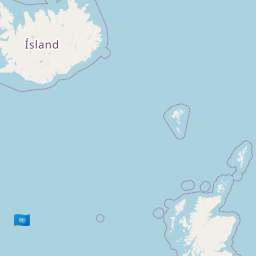
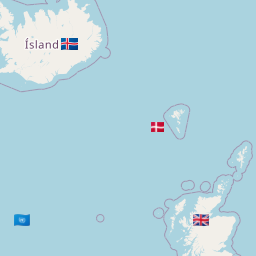
flags-from-the-pango-public

Changed region(s): [[0.75, 0.8125, 0.8438, 0.9062], [0.2188, 0.125, 0.3125, 0.2188], [0.5938, 0.4688, 0.6562, 0.5312]]

diff --git a/wms/tflag/readme.md b/wms/tflag/readme.md
@@ -71,3 +71,27 @@ magick flagsW.png -crop 40x20  o-%d.png  #/ all flags o-0 to o40
 
 t=0; for a in MR ML DZ EH UN MA PT ES DK SE NO FR CH AT IT DE NE BE GB PL CZ SI SK HU HR TN LY MT IE TD AL GR BA RS   LU LI SM AD JE GI VA ; do echo mv o-$t.png $a.png && t=$( <<< 1+$t bc) ; done | bash  #/ rename by CC
 
+
+---
+
+grep -ie eston -e monten -e bosn -e latv ~/Jua/2prod/geo-gis/data/iso3iban.tsv
+Bosnia and Herzegovina	BA	BIH	070
+Estonia	EE	EST	233
+Latvia	LV	LVA	428
+Montenegro	ME	MNE	499
+
+
+for a in  RU NE NL MC BA EE LV ME  ;  do (printf -v FL  $(printf '\\U%08X\\U%08X' $((0x1F1E6 + $(printf '%d' "'${a:0:1}") - 65))  $((0x1F1E6 + $(printf '%d' \'${a:1:1}) - 65)) )  && echo -n " $FL ") ; done; echo
+ 🇷🇺  🇳🇪  🇳🇱  🇲🇨  🇧🇦  🇪🇪  🇱🇻  🇲🇪 
+
+
+pango-view  -qt " 🇷🇺  🇳🇪  🇳🇱  🇲🇨  🇧🇦  🇪🇪  🇱🇻  🇲🇪 " -o flags.png
+
+
+
+for a in FI IS SK MT  RU NE NL MC BA EE LV ME  ;  do (printf -v FL  $(printf '\\U%08X\\U%08X' $((0x1F1E6 + $(printf '%d' "'${a:0:1}") - 65))  $((0x1F1E6 + $(printf '%d' \'${a:1:1}) - 65)) )  && echo -n " $FL ") ; done; echo
+ 🇫🇮  🇮🇸  🇸🇰  🇲🇹  🇷🇺  🇳🇪  🇳🇱  🇲🇨  🇧🇦  🇪🇪  🇱🇻  🇲🇪 
+
+
+pango-view  -qt " 🇫🇮  🇮🇸  🇸🇰  🇲🇹  🇷🇺  🇳🇪  🇳🇱  🇲🇨  🇧🇦  🇪🇪  🇱🇻  🇲🇪 " -o flags.png
+
